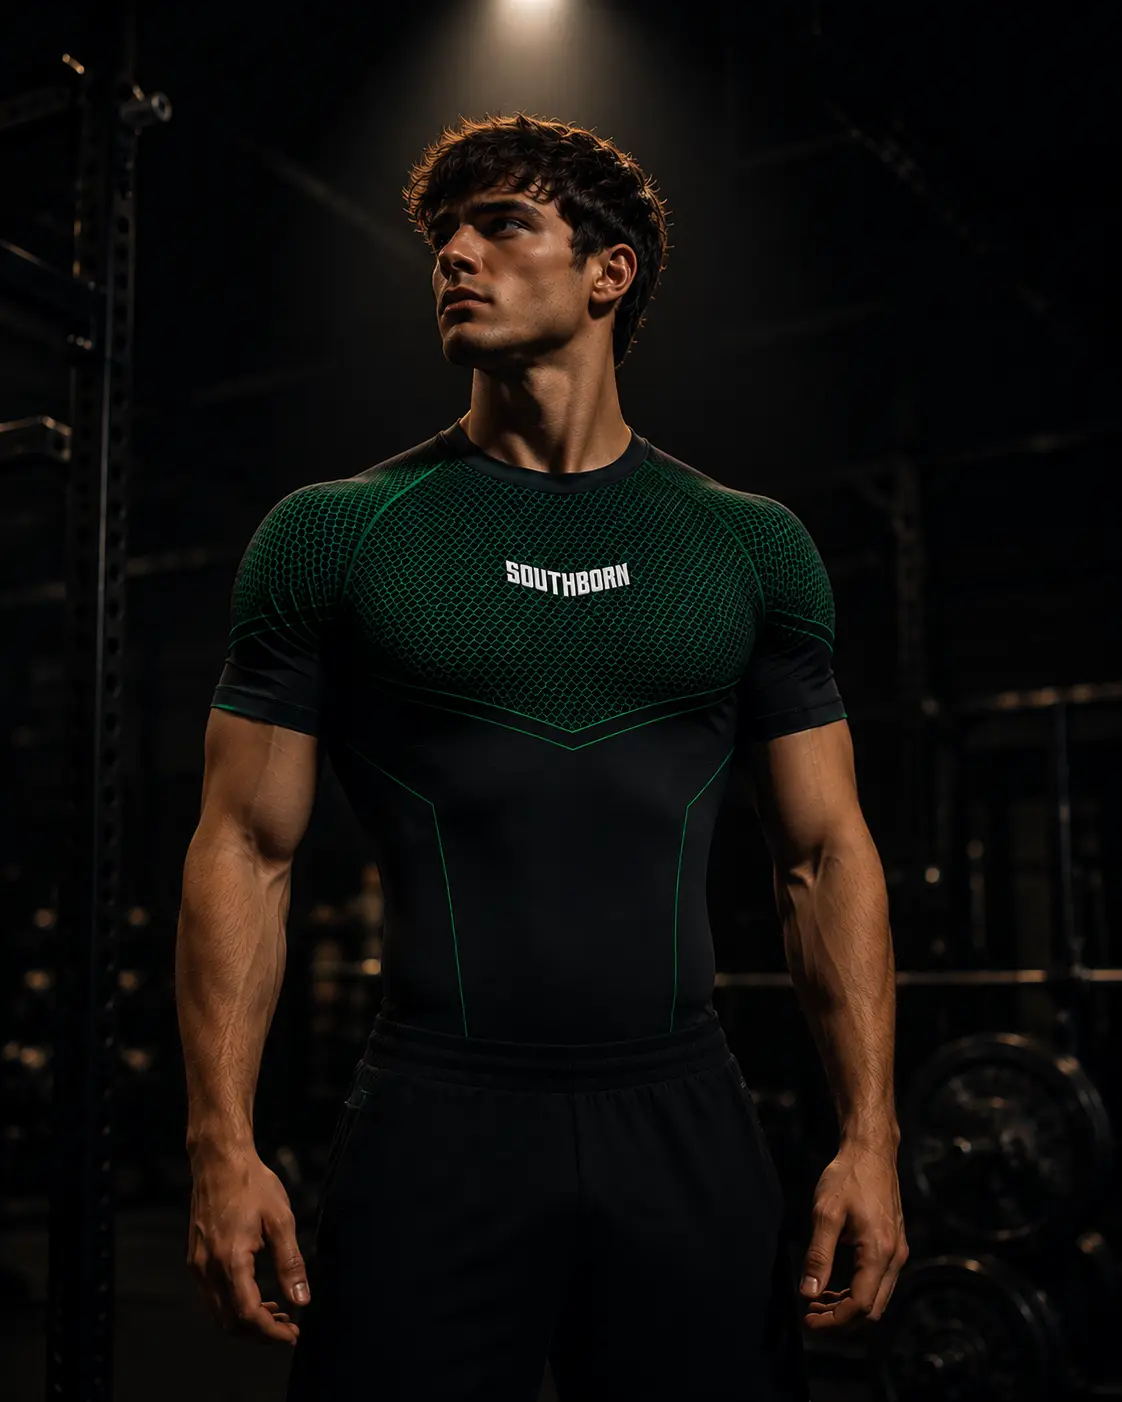
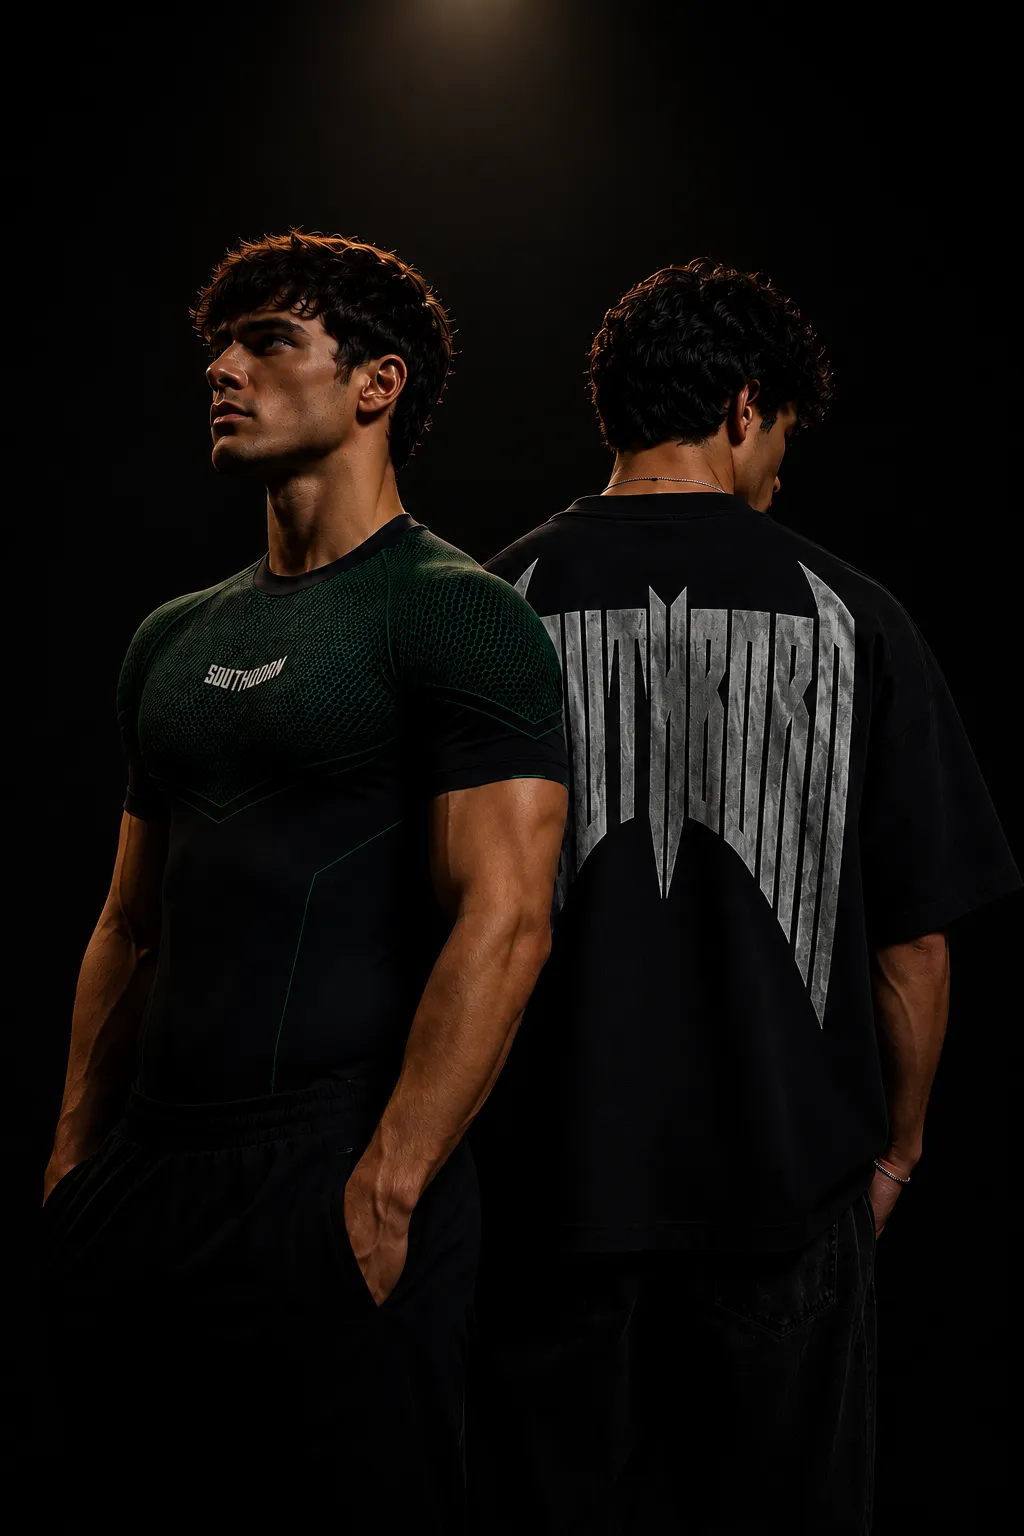
New hero image

diff --git a/app/page.tsx b/app/page.tsx
@@ -13,7 +13,7 @@ export default function Home() {
       <Features/>
       <FAQ/>
       {/* <Footer/> */}
-      <Loader/>
+      {/* <Loader/> */}
     </>
   );
 }

diff --git a/sections/Hero.tsx b/sections/Hero.tsx
@@ -67,7 +67,7 @@ export default function Hero() {
             )}
 
             {/* Overlay */}
-            <div className="absolute bg-neutral-950/70 inset-0"/>
+            <div className="absolute bg-linear-to-b from-black/50 via-black/75 to-black inset-0"/>
 
 
             {/* Header */}